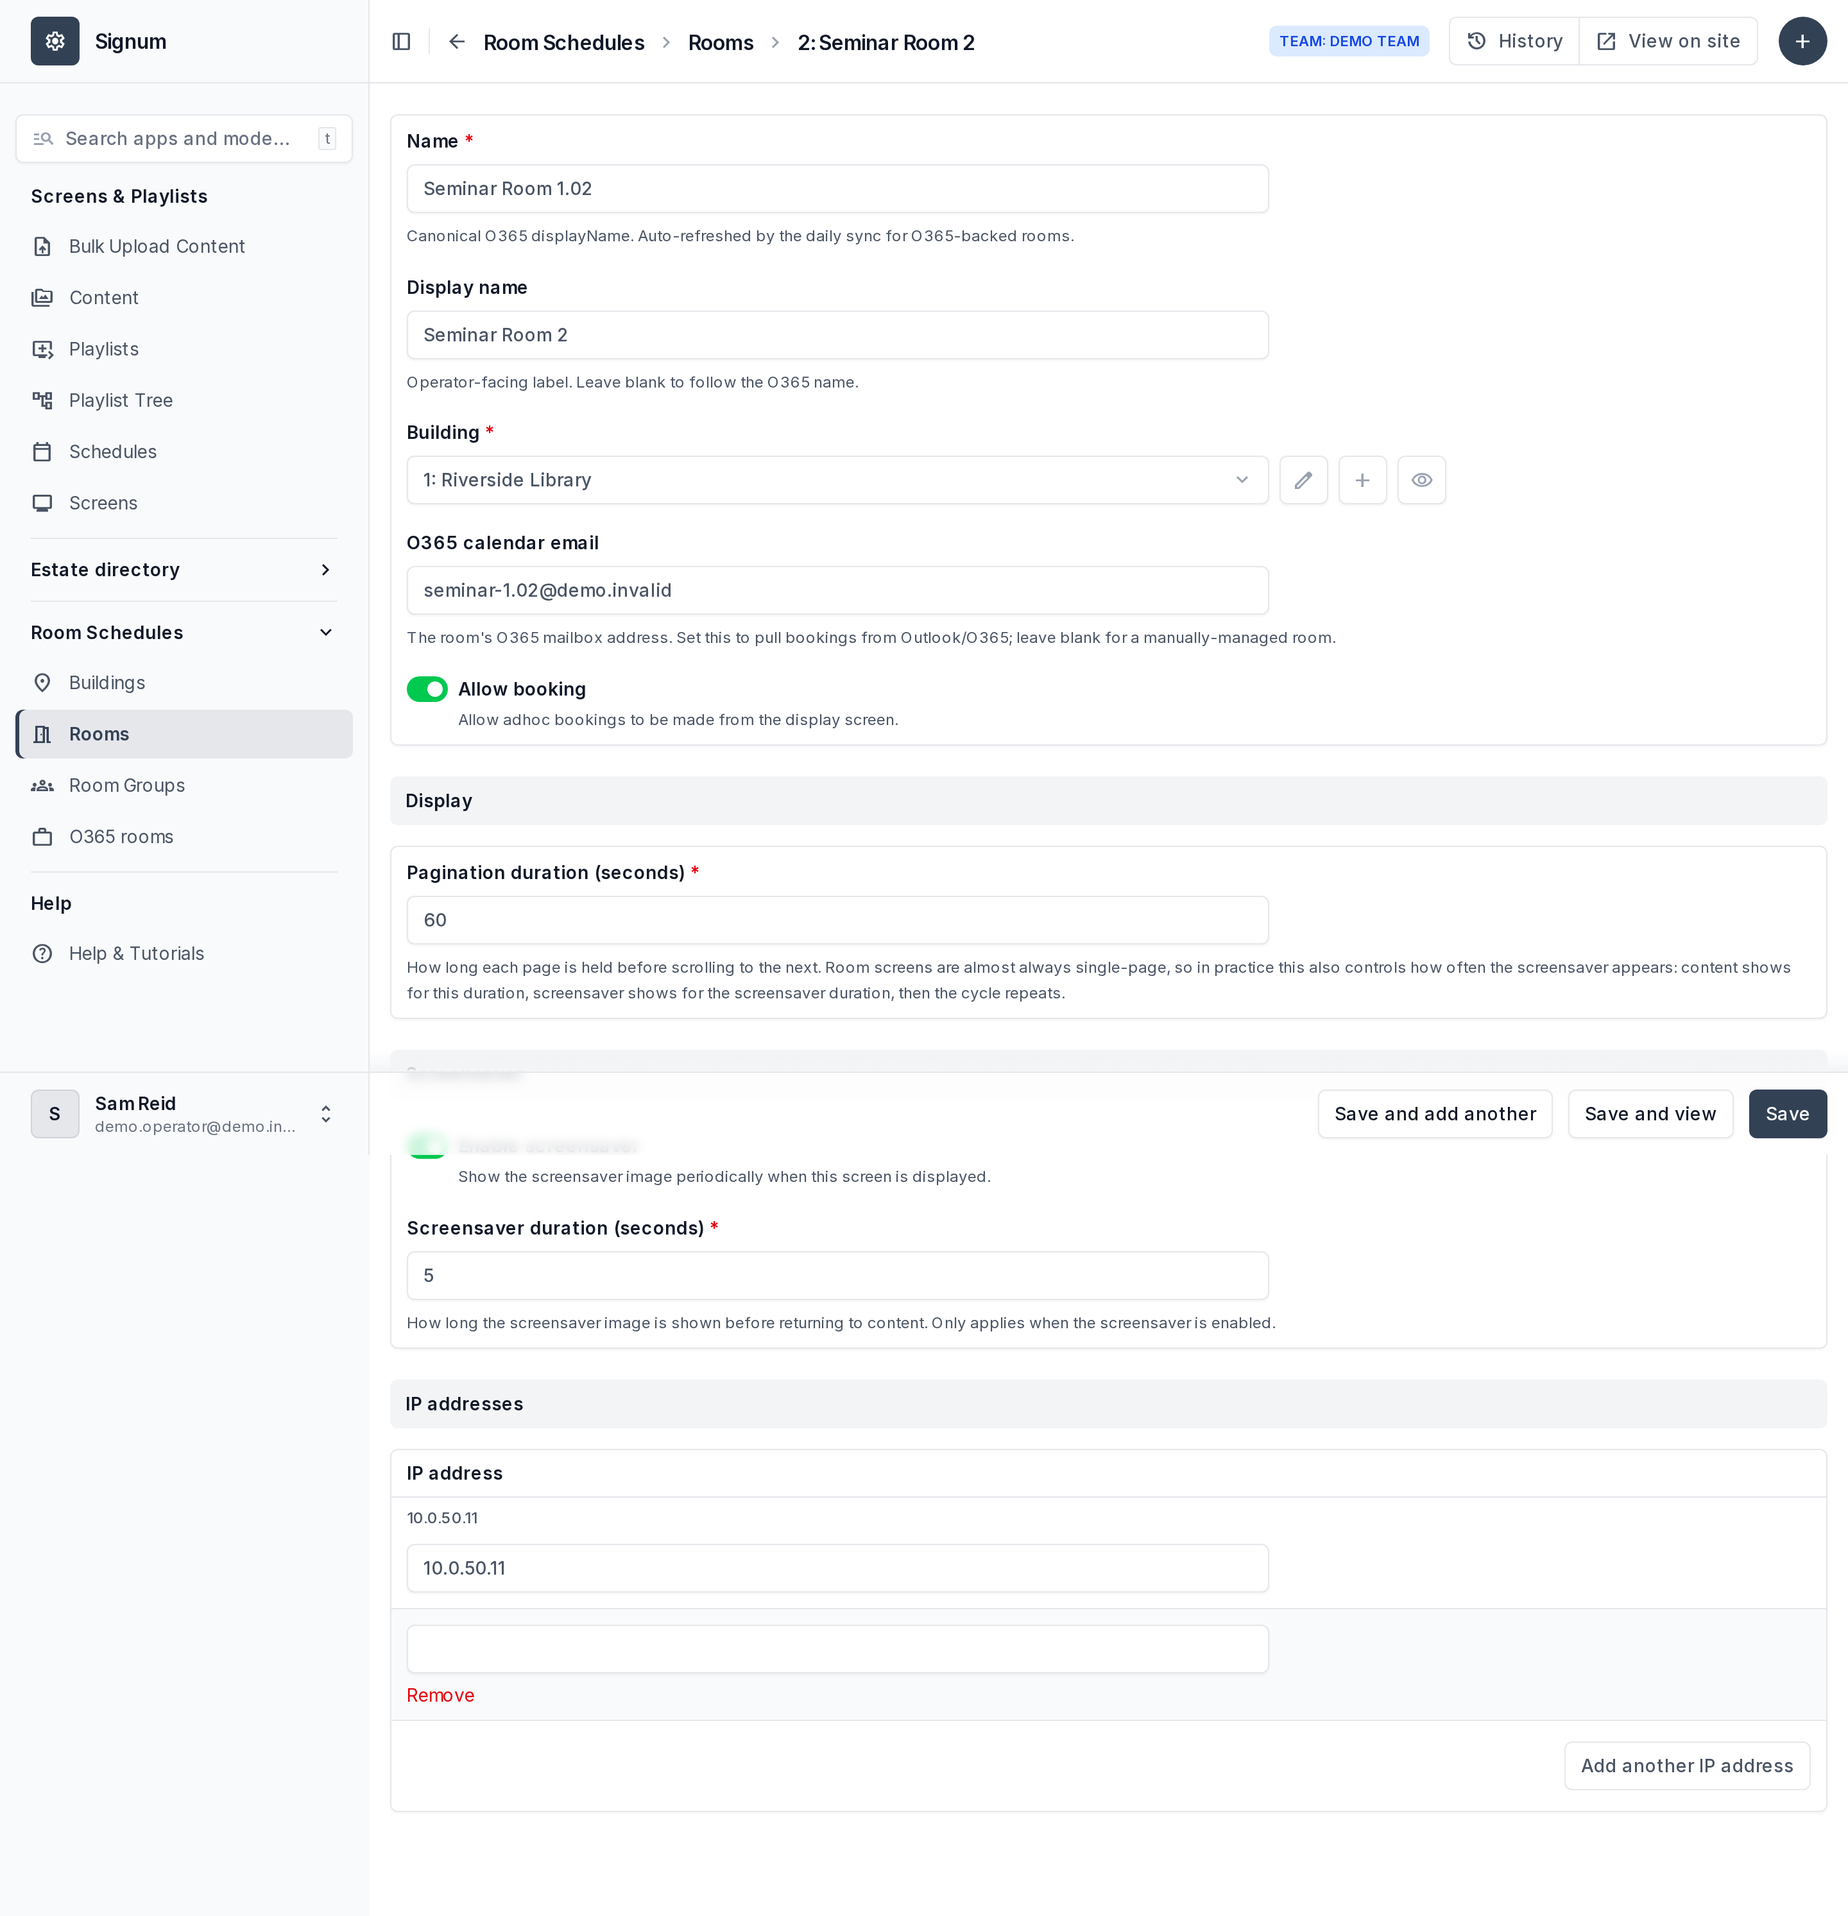
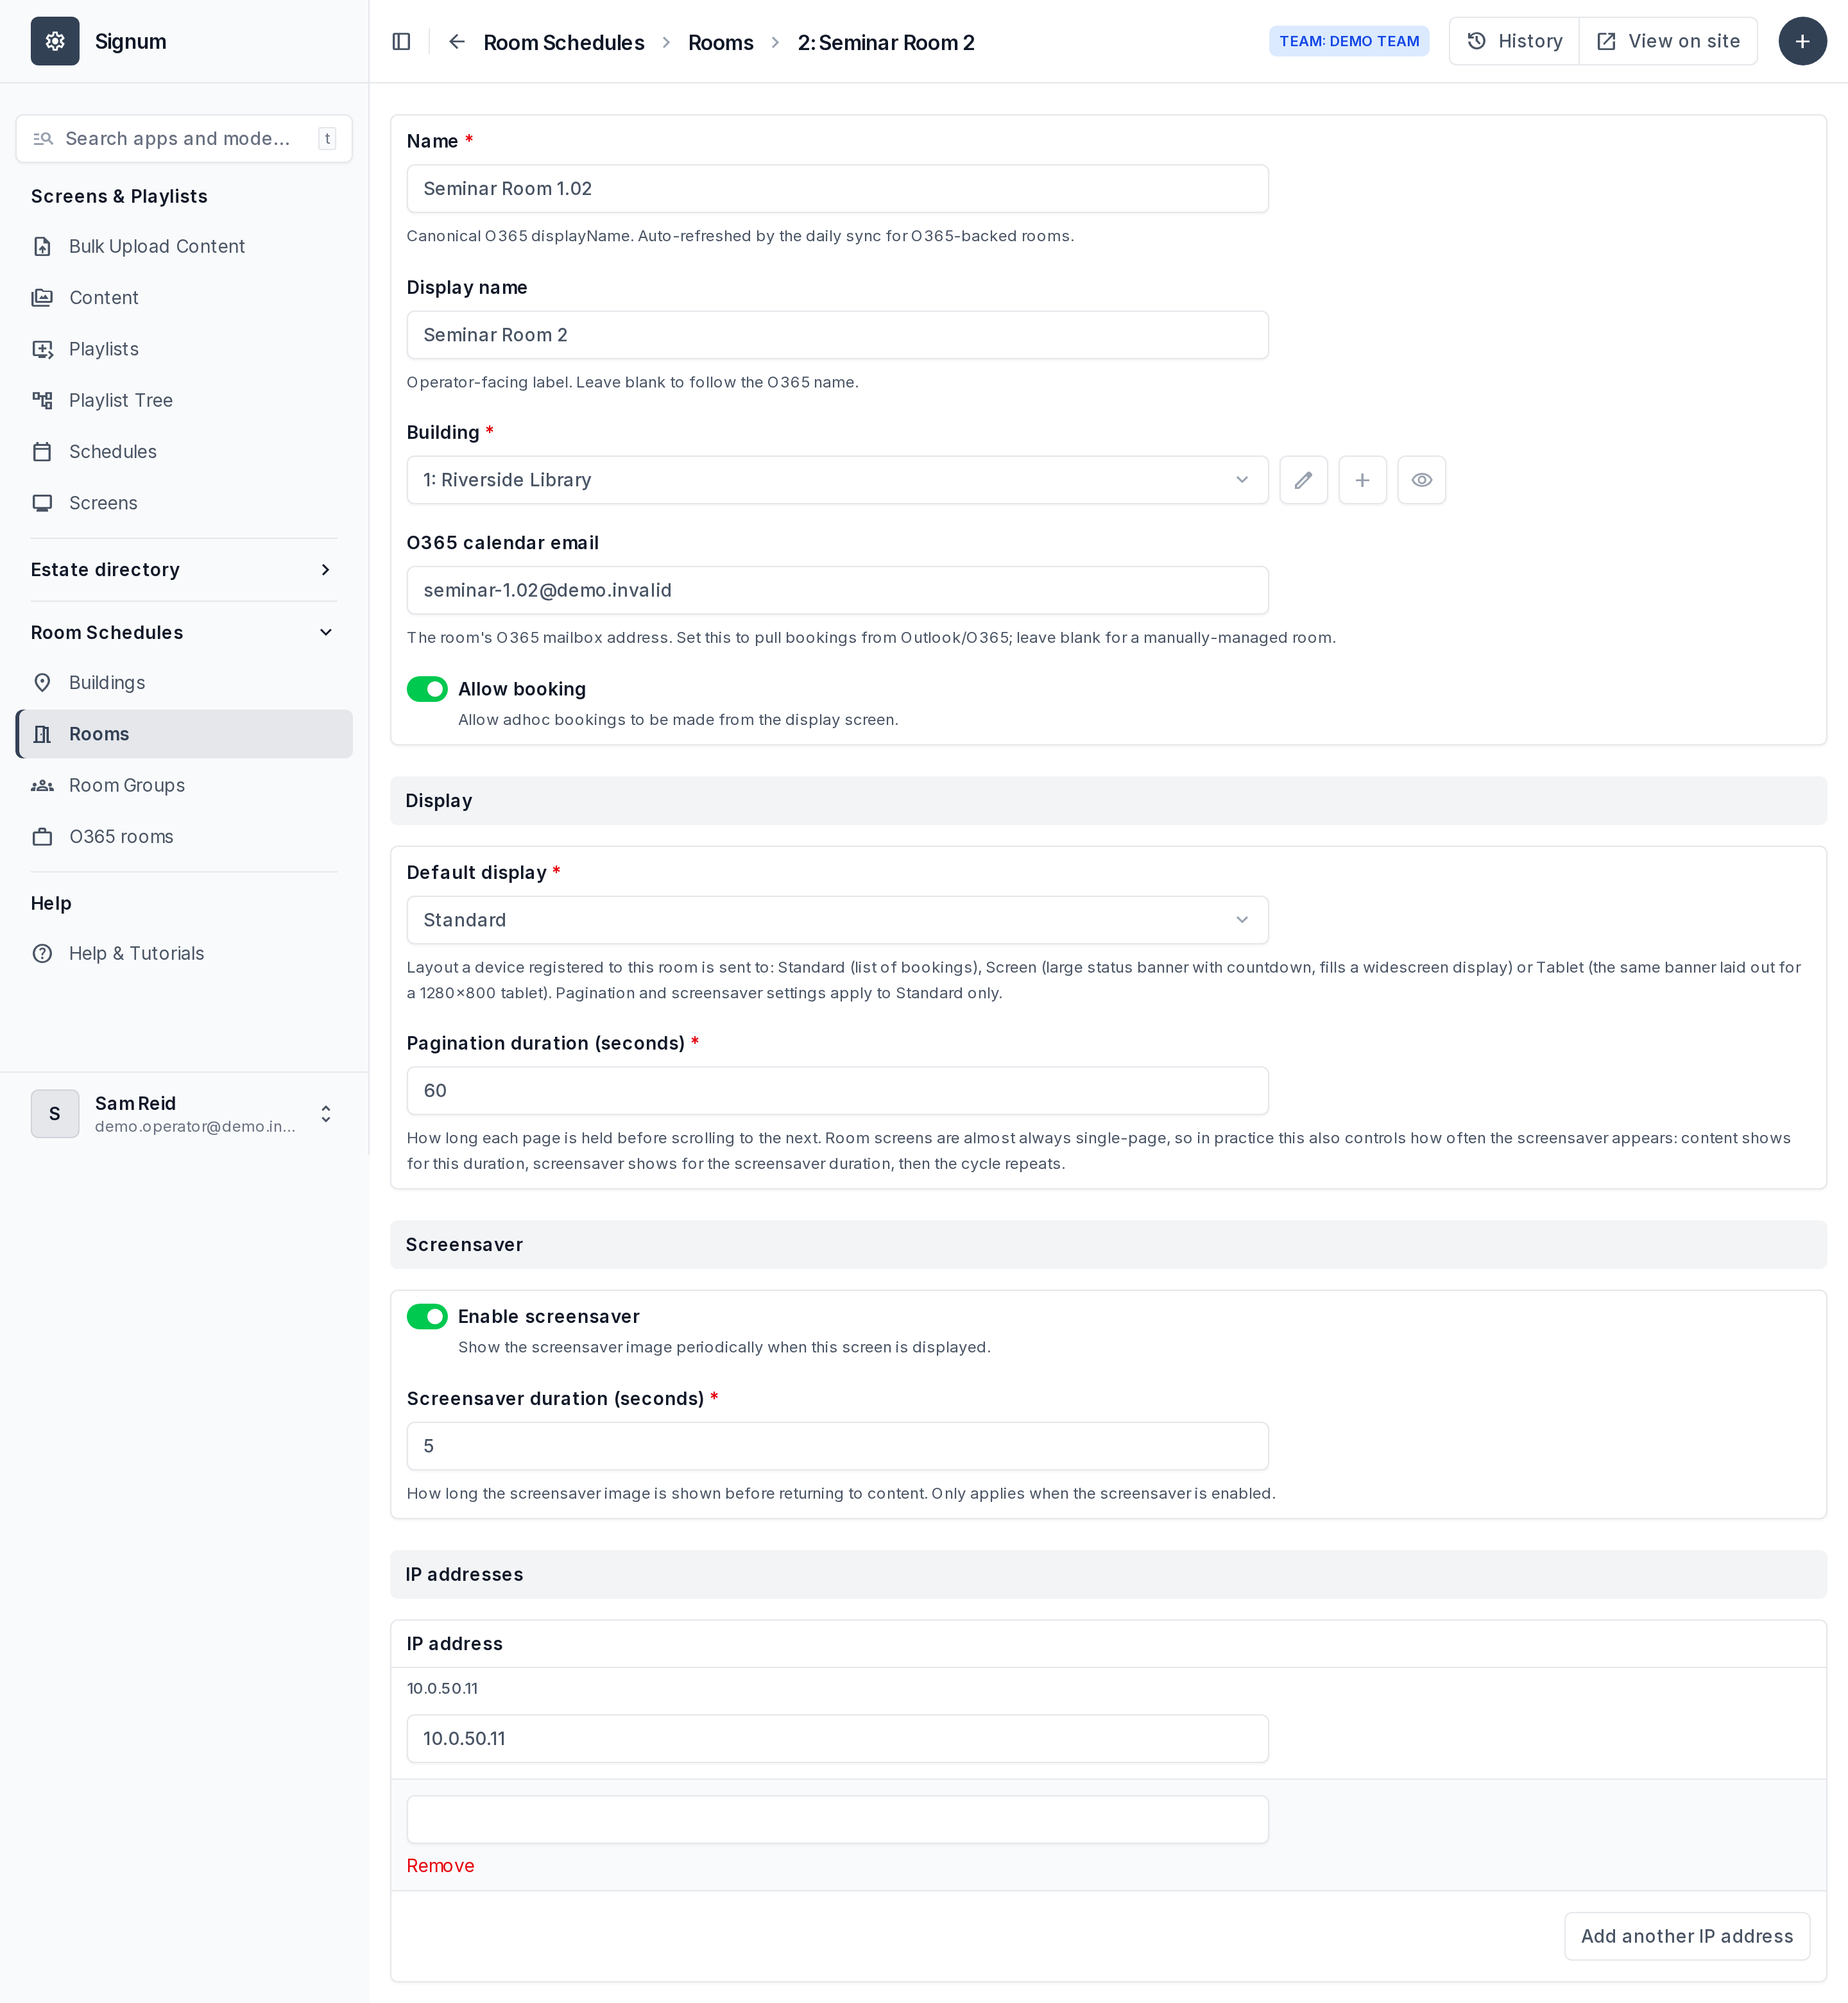
feat: Enhance room display layouts and update troubleshooting documentation

diff --git a/helpdocs/screenshots.py b/helpdocs/screenshots.py
@@ -185,6 +185,12 @@ SHOTS = (
         path='/admin/room_schedules/room/{room_id}/change/',
         wait_for=FORM,
         full_page=True,
+        # As screen-form: the sticky submit row would land across the Display
+        # fieldset.
+        run_js=(
+            "const row = document.getElementById('submit-row');"
+            "if (row) { row.style.display = 'none'; }"
+        ),
     ),
     Shot(
         name='building-grid',
@@ -200,6 +206,21 @@ SHOTS = (
         # Room screens are built for portrait tablets, but a full-height capture
         # is mostly empty below the booking list.
         viewport=(1080, 900),
+        settle_ms=900,
+    ),
+    Shot(
+        name='room-layout-screen',
+        path='/event_schedules/{building_id}/{bookable_room_id}/screen',
+        as_user=ANONYMOUS,
+        viewport=(1600, 900),
+        settle_ms=900,
+    ),
+    Shot(
+        name='room-layout-tablet',
+        path='/event_schedules/{building_id}/{bookable_room_id}/tablet',
+        as_user=ANONYMOUS,
+        # The layout's own canvas size; it scales to fit anything else.
+        viewport=(1280, 800),
         settle_ms=900,
     ),
 

diff --git a/helpdocs/content/technical/room-displays.md b/helpdocs/content/technical/room-displays.md
@@ -38,8 +38,8 @@ Buildings and room groups can be shown in either of two layouts:
 
 ![A building grid display](screenshot:building-grid)
 
-Set the **Default display** on the building or group. A single room always uses
-the room layout.
+Set the **Default display** on the building or group. A single room has layouts
+of its own — see [Choosing a room layout](#choosing-a-room-layout).
 
 ## Setting up a building
 
@@ -72,10 +72,51 @@ so you can check your changes immediately.
    bookings. Leave it blank for a room whose bookings you manage by hand.
 6. **Allow booking** lets people book the room from the display itself — see
    [Booking a room from its screen](help:booking-a-room).
-7. Set **Pagination duration** and the **Screensaver** options as for a building.
-8. Save.
+7. Under **Display**, choose the **Default display** — Standard, Screen or
+   Tablet. See [Choosing a room layout](#choosing-a-room-layout).
+8. Set **Pagination duration** and the **Screensaver** options as for a
+   building. These only affect the Standard layout.
+9. Save.
 
 ![A room's settings](screenshot:room-form)
+
+The **Standard**, **Screen** and **Tablet** buttons on the rooms list open each
+layout for that room, whichever one it is set to, so you can compare them before
+choosing.
+
+## Choosing a room layout
+
+A room can be shown in any of three layouts. All three show the same bookings,
+offer **Book Now** under the same conditions, hide private booking subjects, and
+drive the status light. What differs is how they look and which settings they
+honour.
+
+| Layout | What it looks like | Best for |
+|---|---|---|
+| **Standard** | A list of the day's bookings, with the current one enlarged | Most room screens. The default. |
+| **Screen** | A large coloured banner — *Available*, *Busy Soon* or *In Use* — with a live countdown, a progress bar, the next booking and the day's schedule beneath. Stretches to fill the display. | Widescreen displays that should read from across a corridor |
+| **Tablet** | The same banner design, laid out for a 1280×800 tablet and scaled to fit | Wall-mounted tablets, especially ones used for booking |
+
+![The Screen layout](screenshot:room-layout-screen)
+
+![The Tablet layout](screenshot:room-layout-tablet)
+
+The Standard layout is pictured on
+[Booking a room from its screen](help:booking-a-room).
+
+Only **Standard** uses the **Pagination duration**, the **Screensaver** and
+compact mode for older hardware. Screen and Tablet ignore all three, so leave
+them at their defaults when choosing either.
+
+Set the layout with **Default display** on the room. New rooms start on
+Standard, as did every room before the choice existed.
+
+!!! warning "A running display doesn't switch layout by itself"
+    The display's address is the room-schedules entry point, which looks up the
+    device and sends it on to the chosen layout's own address. From then on the
+    device refreshes *that* address, not the entry point. So after changing
+    **Default display** — on a room, building or group — restart the device, or
+    reload its browser at the entry point, before expecting it to change.
 
 ## Grouping rooms together
 
@@ -99,7 +140,8 @@ With the screensaver enabled, the display alternates between the bookings and a
 plain image. Content shows for the **pagination duration**, the screensaver shows
 for the **screensaver duration**, then it repeats.
 
-This is mainly there to protect displays that show the same thing all day.
+This is mainly there to protect displays that show the same thing all day. On a
+room, it applies only to the Standard layout.
 
 ## Private bookings
 

diff --git a/helpdocs/content/technical/player-api.md b/helpdocs/content/technical/player-api.md
@@ -135,7 +135,9 @@ whether one has a ticker.
 | Endpoint | Returns |
 |---|---|
 | `/event_schedules/` | Routes the caller to its own room, building or group |
-| `/event_schedules/<building>/<room>` | One room's screen |
+| `/event_schedules/<building>/<room>` | One room's screen, Standard layout |
+| `/event_schedules/<building>/<room>/screen` | One room's screen, Screen layout |
+| `/event_schedules/<building>/<room>/tablet` | One room's screen, Tablet layout |
 | `/event_schedules/<building>` | A building grid |
 | `/event_schedules/<building>/foyer` | A building foyer list |
 | `/event_schedules/<building>/group/<id>` | A room group grid |
@@ -145,15 +147,18 @@ whether one has a ticker.
 | `/event_schedules/diagnostic` | Browser capability report |
 
 `/event_schedules/` with nothing after it is the address you configure on a room
-display: it resolves the caller's IP to a room, building or group and redirects.
-That's why registering the IP is the whole of the configuration.
+display: it resolves the caller's IP to a room, building or group and redirects
+to that target's **Default display** — grid or foyer for a building or group,
+Standard, Screen or Tablet for a room. That's why registering the IP is the whole
+of the configuration. The device then refreshes the address it was redirected to,
+so a changed layout only reaches it when it next loads the entry point.
 
 Room screens poll a state endpoint roughly every ten seconds and reload when
 bookings change, which is why a new booking appears on the screen within seconds
 rather than waiting for the next calendar pull.
 
-Add `?compact=1` to a room screen's address to force the compact layout on old
-hardware.
+Add `?compact=1` to a Standard room screen's address to force the compact layout
+on old hardware. The Screen and Tablet layouts have no compact variant.
 
 ## Media
 

diff --git a/helpdocs/content/technical/device-commissioning.md b/helpdocs/content/technical/device-commissioning.md
@@ -54,9 +54,11 @@ Add the IP address on the **IP addresses** section of:
     than one, never none. This is enforced by the database as well as the form,
     so a partially-filled row is rejected outright.
 
-Whether the display then shows a grid or a foyer list comes from the target's
-**Default display** setting, not from the IP record — see
-[Room and building displays](help:room-displays).
+Which layout the display then shows — grid or foyer for a building or group;
+Standard, Screen or Tablet for a room — comes from the target's **Default
+display** setting, not from the IP record — see
+[Room and building displays](help:room-displays). The device picks the layout up
+when it loads the entry point, so restart it after changing that setting.
 
 ## How access control affects displays
 
@@ -84,7 +86,8 @@ Some fixed-purpose displays run old browsers. Two things help:
 
 - **Compact mode.** Add `?compact=1` to a room screen's address to force the
   compact layout. It is applied automatically for the oldest known browsers, but
-  the override is there when detection doesn't catch one.
+  the override is there when detection doesn't catch one. It exists only for
+  the Standard room layout.
 - **The diagnostic page.** The room-schedules area has a diagnostic page that
   reports what the device's browser actually supports. Load it on a device that
   renders badly before assuming the display is broken — it usually identifies a

diff --git a/helpdocs/content/technical/troubleshooting.md b/helpdocs/content/technical/troubleshooting.md
@@ -109,6 +109,13 @@ Check whether the room was moved to another building. A group requires all its
 members to share the group's building, so moving a room out silently removes it
 from that group. Move it back, or re-add it to a group in its new building.
 
+### A display didn't change after changing its layout
+
+The device was sent to its layout's own address when it started, and keeps
+refreshing that address. Restart the device, or reload its browser at the
+room-schedules entry point, and it picks up the new **Default display**. This
+applies to rooms, buildings and room groups alike.
+
 ### Book Now doesn't appear
 
 All four must hold: the room is free now, the next booking isn't within 15
